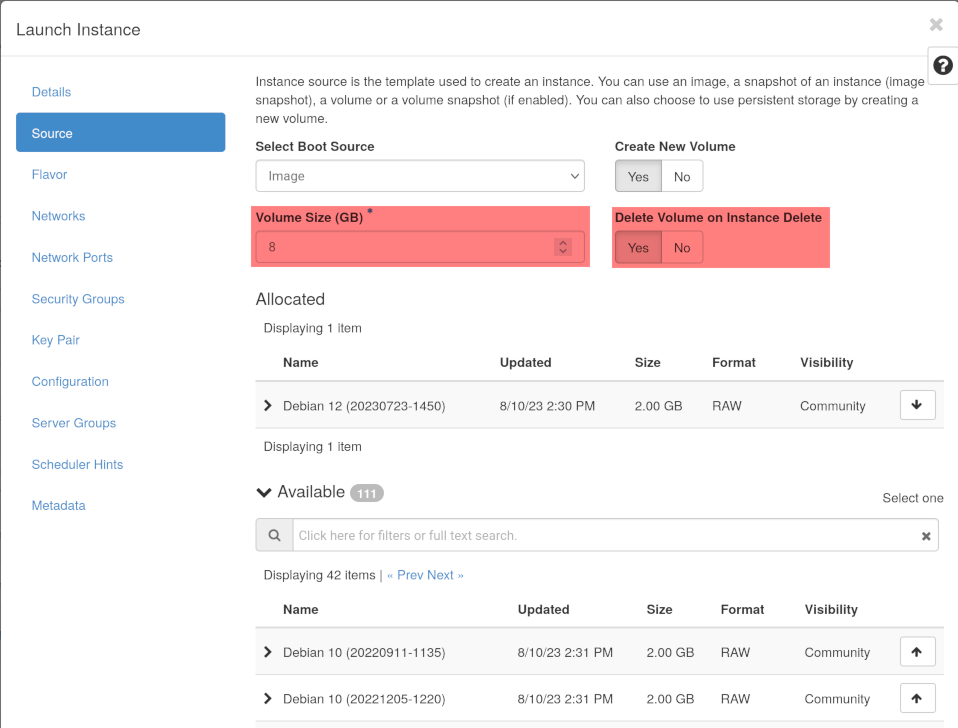
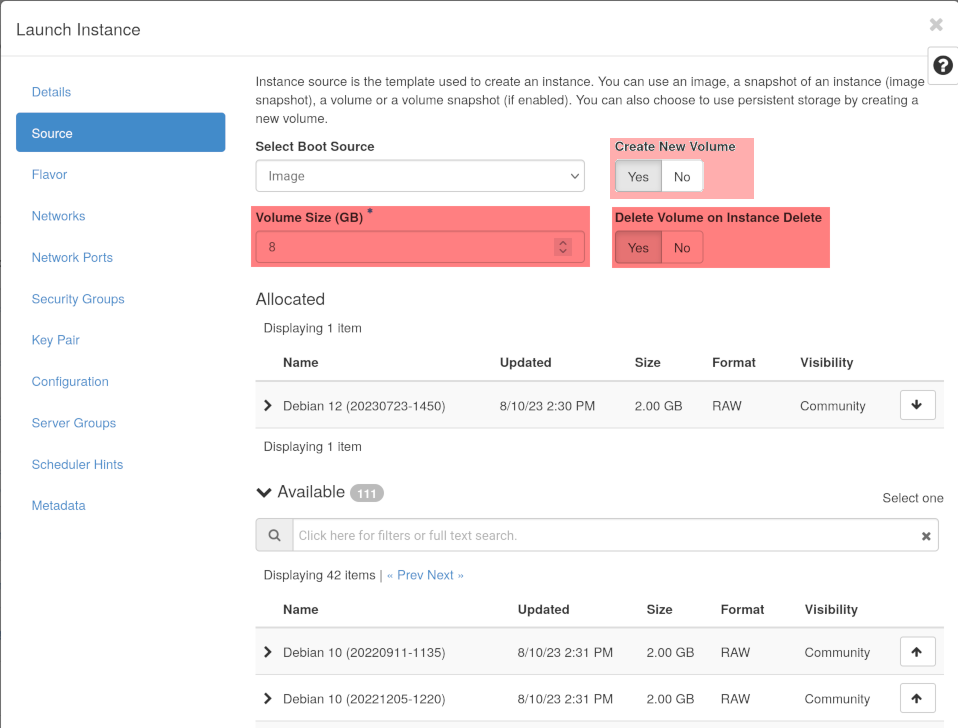
Improve wording (ephemeral disk). Live-Migr. consid.
Also improve screenshot.

Changed region(s): [[0.6357, 0.1813, 0.7871, 0.272]]

diff --git a/_i18n/en/_posts/blog/2023-08-21-diskless-flavors.md b/_i18n/en/_posts/blog/2023-08-21-diskless-flavors.md
@@ -61,6 +61,12 @@ prevent flavor explosion by just mandating one disk size per flavor, scaling
 it with the size of the RAM and choosing discrete values of 5, 10, 20,
 50 and 100 GB for them. (By extension, providers that want to provide
 larger disks have been advised to choose 200, 500, 1000, ... GB for these.)
+Note that these root disks are not proper cinder volumes (that you could
+enlarge or create snapshots or backups from), but so called ephemeral
+disks, which get deleted as soon as the VM gets deleted. Often, they are
+stored on the local compute node which makes live-migration slow (if the
+provider enabled block migration) or completely prevents live-migration
+(if the provider has not enabled block migration).
 
 Next to each flavor with a root disk size (e.g. `SCS-4V-16-50`), SCS
 also mandates a flavor without a root disk (e.g. `SCS-4V-16`). This is useful,
@@ -98,7 +104,7 @@ own projects.
 
 ### Horizon
 On the second page of the create instance dialogues, you can choose to
-create a volume of any size you want (though you better make it large
+create a new volume, chose any size you want (though you better make it large
 enough to accommodate the needs of the used image) and you can also
 choose that the disk should be destroyed upon the destruction of the VM
 as it would if you had used a flavor with a disk. This second page
@@ -369,7 +375,11 @@ because of missing `jq` binary for people that upgraded by `git pull`.
 Using the `block_device_mapping_v2` in the OpenStack API or the corresponding options
 in the python SDK, the openstack client CLI or terraform while using a flavor that
 comes with a root disk does not create any harm. The cinder volume is still created
-and used, while the disk that comes with the flavor is not used.
+and used, while the disk that comes with the flavor is not accessible to the VM then.
+You still want to avoid this, as you are allocating resources (ephemeral disks) that
+you can't use, but potentially have to pay for, especially on the SSD flavors. So
+remember to not pass `--block-device boot_index=0,...` or to uncheck "Create new volume"
+in horizon if you use flavors with a disk.
 
 ### Why create the two (new) SSD flavors?
 So when moving from flavor standard v2 to v3, we have downgraded all flavors
